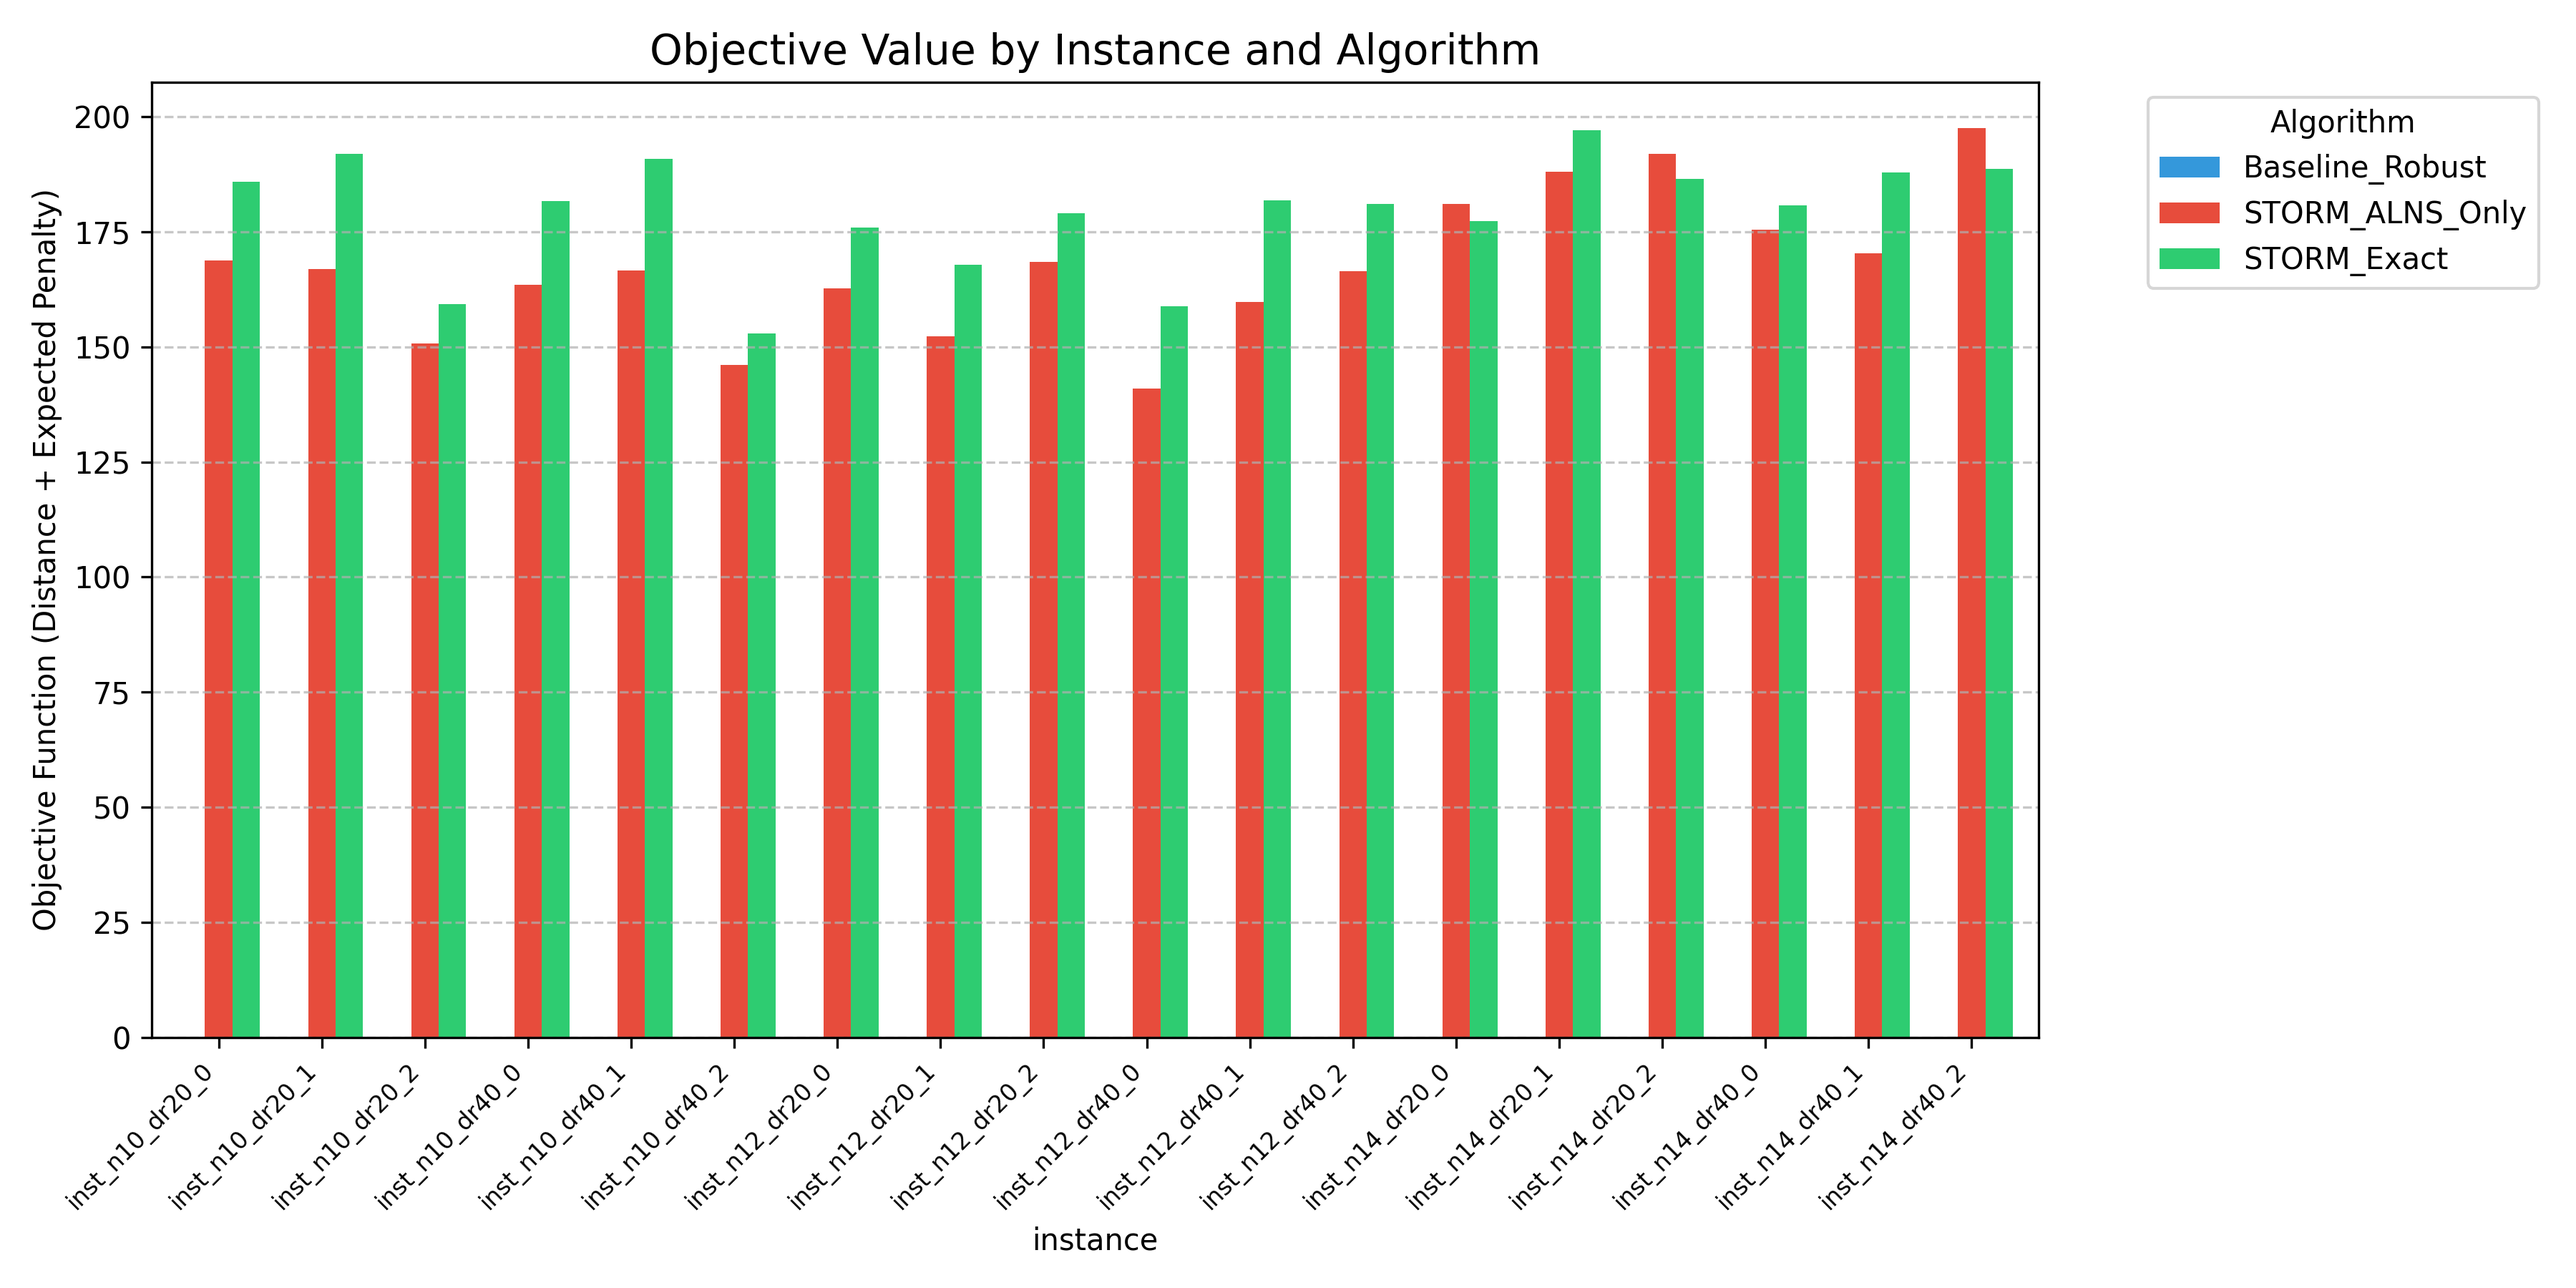
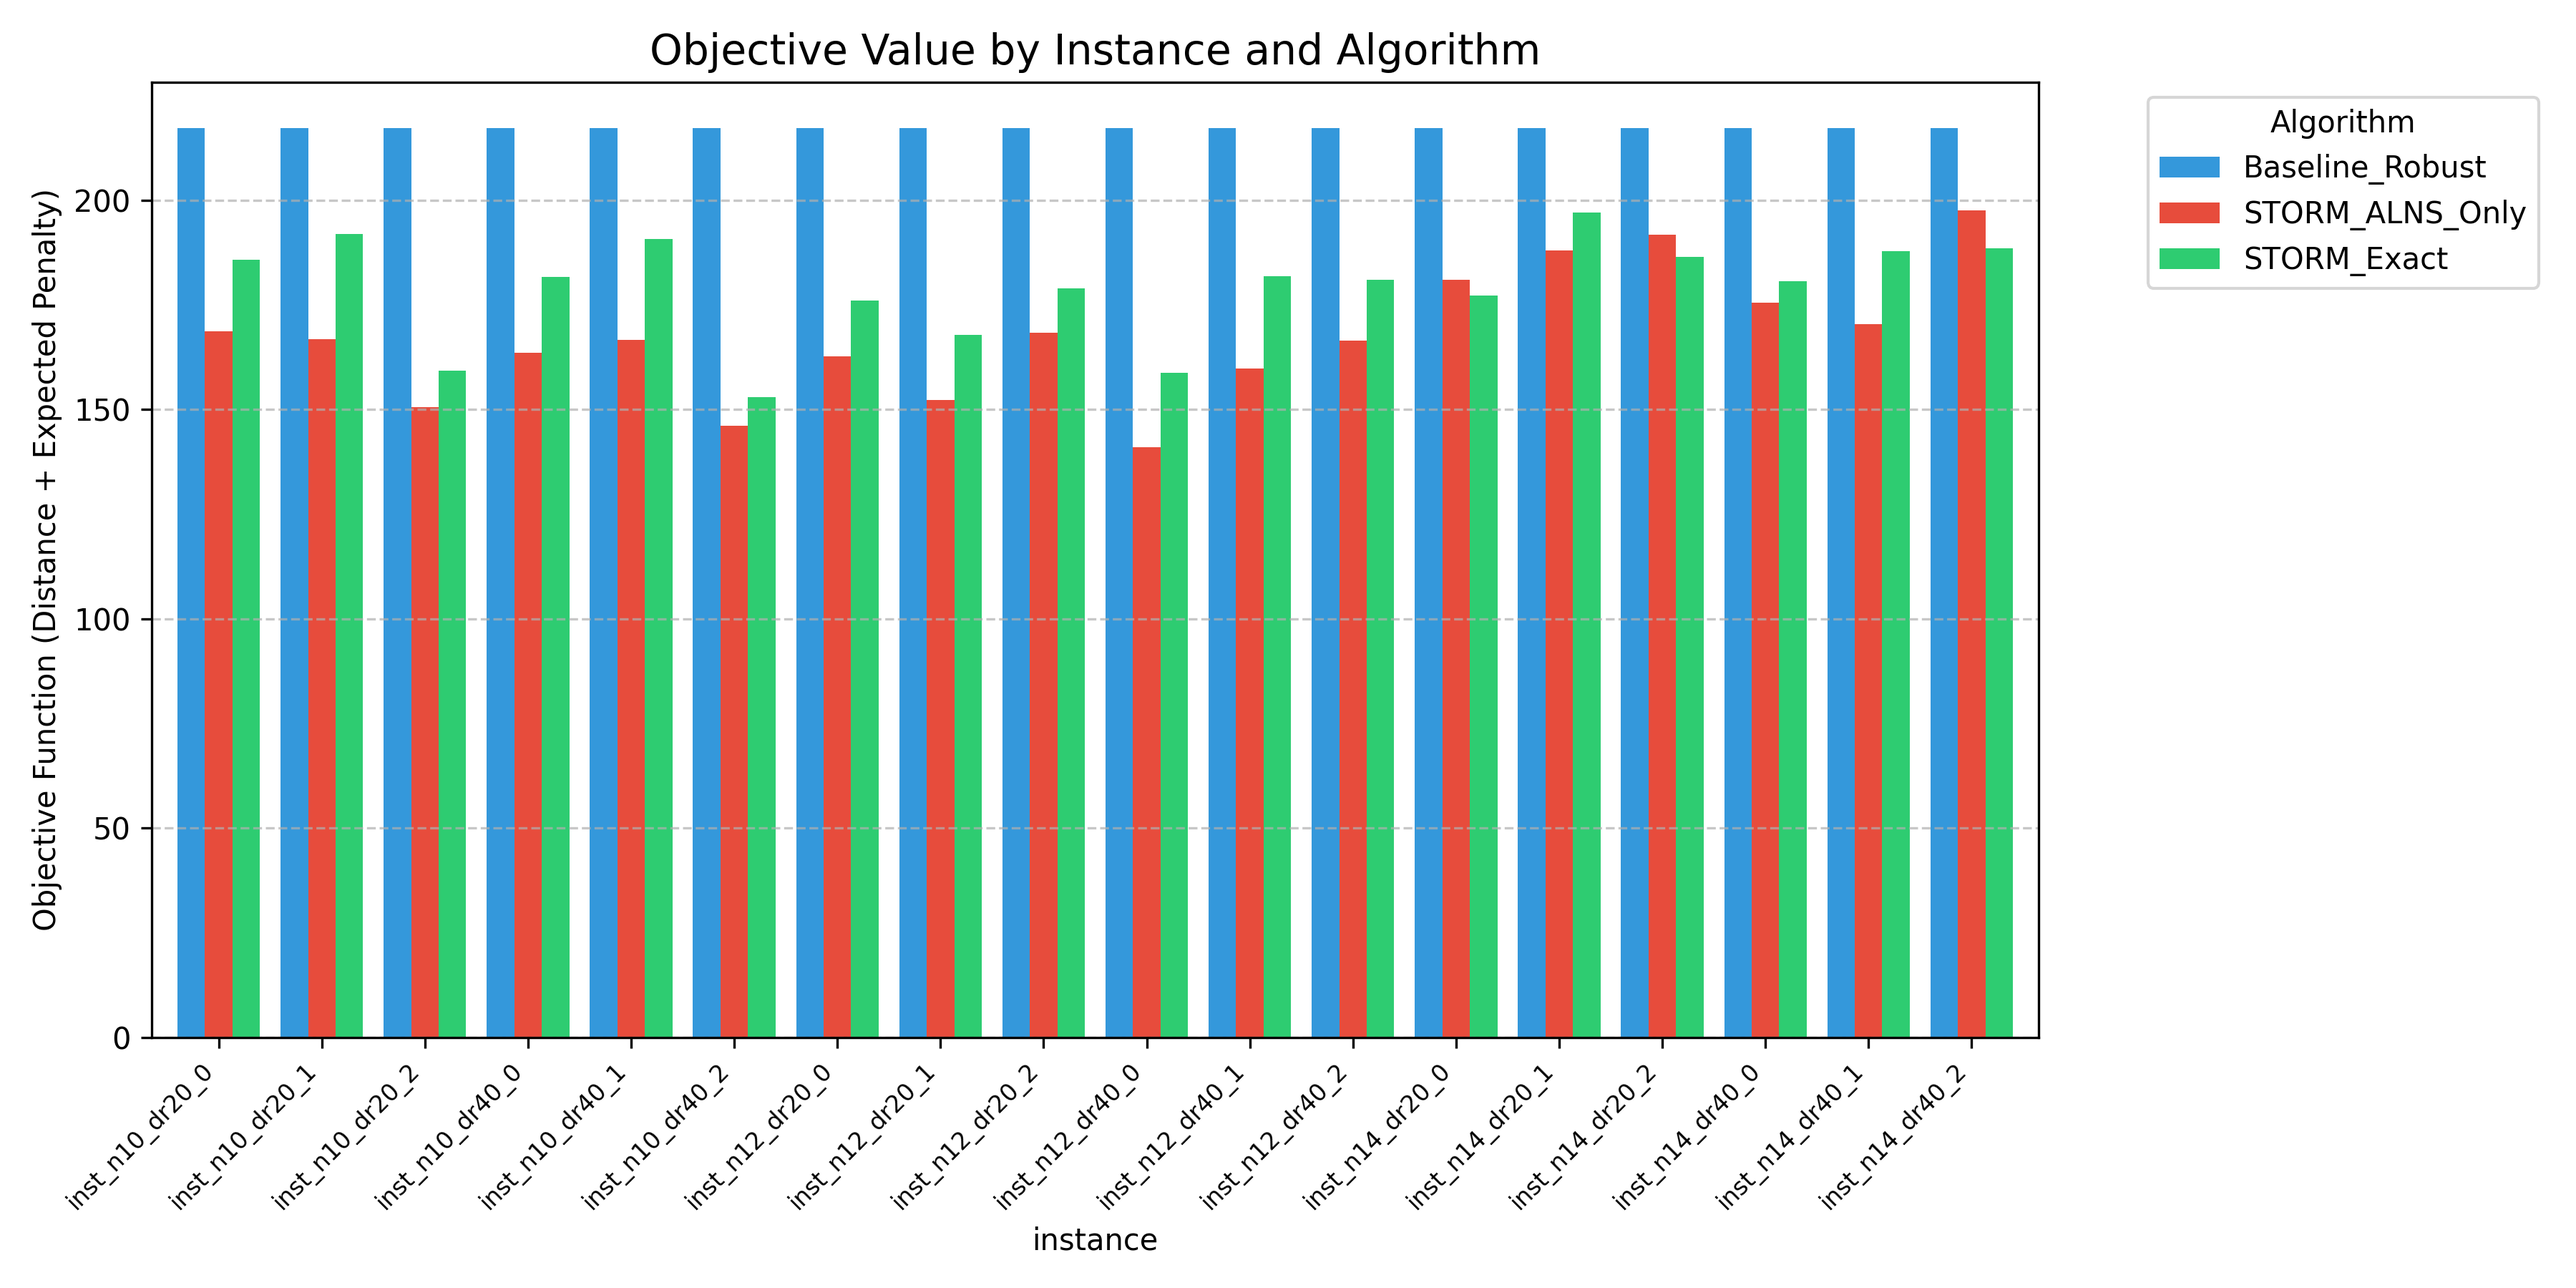
Update visualization script to render infinite objective geometries

Changed region(s): [[0.0311, 0.0933, 0.8089, 0.8089], [0.0311, 0.0622, 0.0622, 0.0933]]

diff --git a/scripts/visualize_results.py b/scripts/visualize_results.py
@@ -24,7 +24,14 @@ def generate_plots():
     plt.close()
     
     # 2. Objective Value Comparison across instances
-    pivot_df = df.pivot(index='instance', columns='algorithm', values='objective')
+    import numpy as np
+    
+    # Temporarily cap infinite objectives (infeasible instances) to a constant above the max finite value so it renders
+    max_finite = df.loc[df['objective'] != np.inf, 'objective'].max()
+    plot_df = df.copy()
+    plot_df.loc[plot_df['objective'] == np.inf, 'objective'] = max_finite * 1.1
+    
+    pivot_df = plot_df.pivot(index='instance', columns='algorithm', values='objective')
     
     plt.figure(figsize=(12, 6))
     pivot_df.plot(kind='bar', ax=plt.gca(), width=0.8, color=colors)
